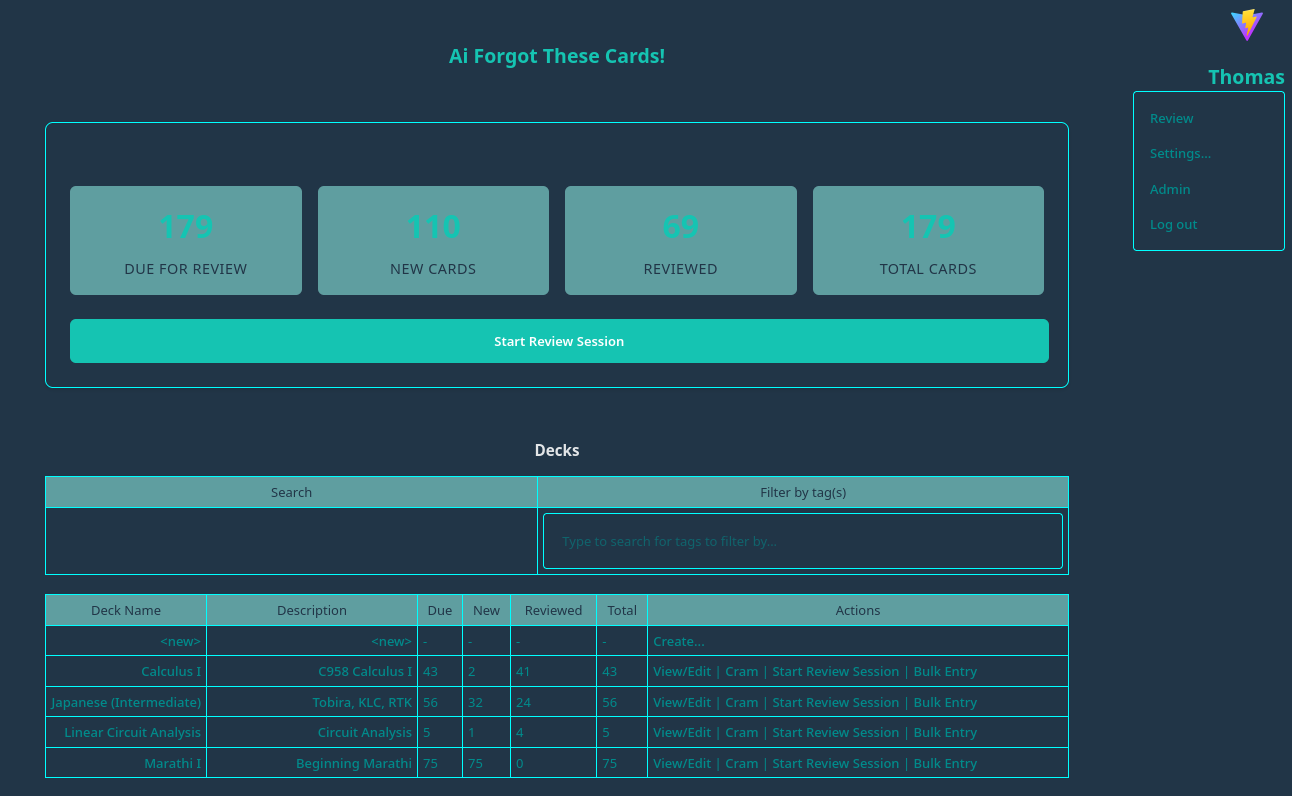
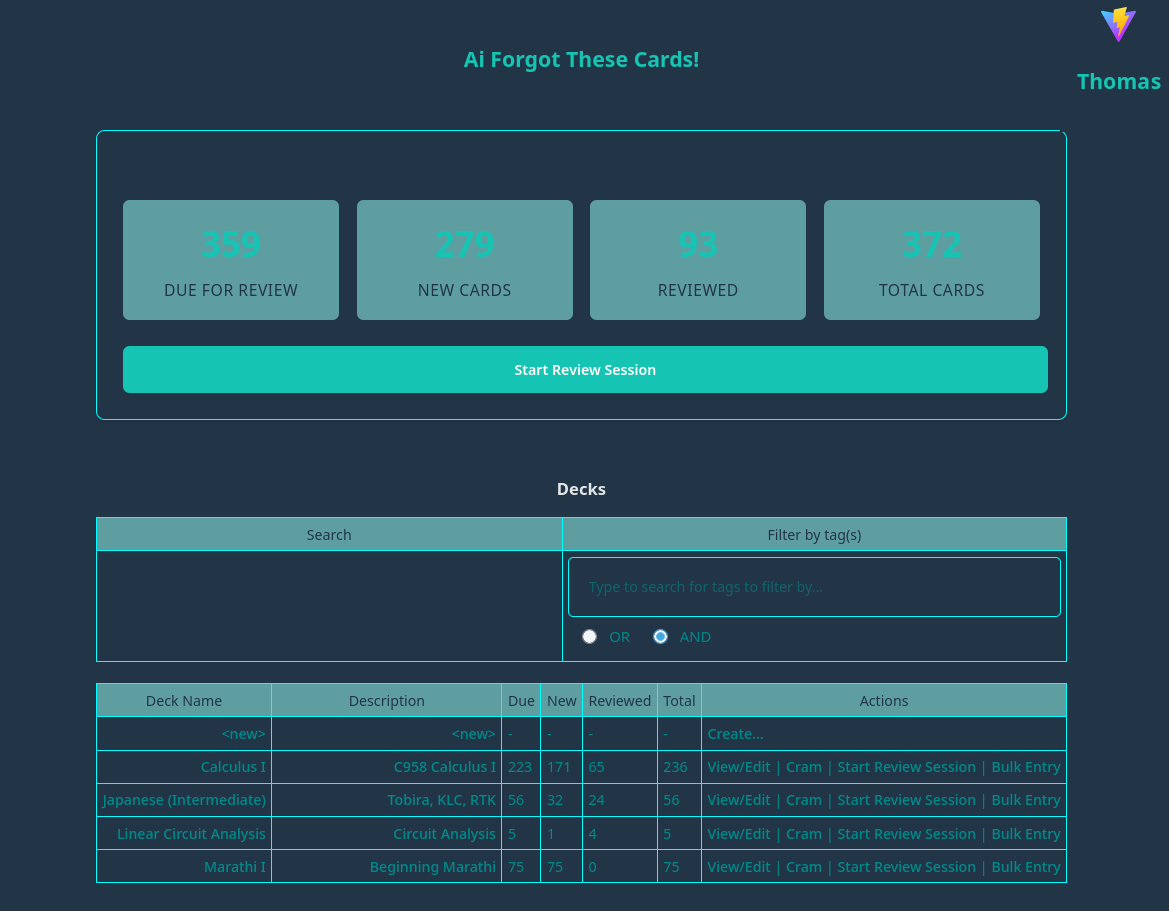
feat: add AND/OR match mode to TagWidget filters - Add match-mode radio toggle (AND/OR) to TagWidget and plumb through SearchAndFilterWidget - Update tag filtering behavior across Home, EditDeck, Review, Cram, and BulkCardEntry - Extend shared FilterCards/FilterDecks helpers to support OR matching -

diff --git a/README.md b/README.md
@@ -7,7 +7,7 @@
 
 AI-assisted flashcards: create decks/cards, study via SRS Review or Cram mode, and (optionally) chat with an LLM while authoring cards.
 
-![Screenshot](res/screenshots/review_back.png)
+![Screenshot](res/screenshots/screenshot.png)
 
 ## Installation
 
